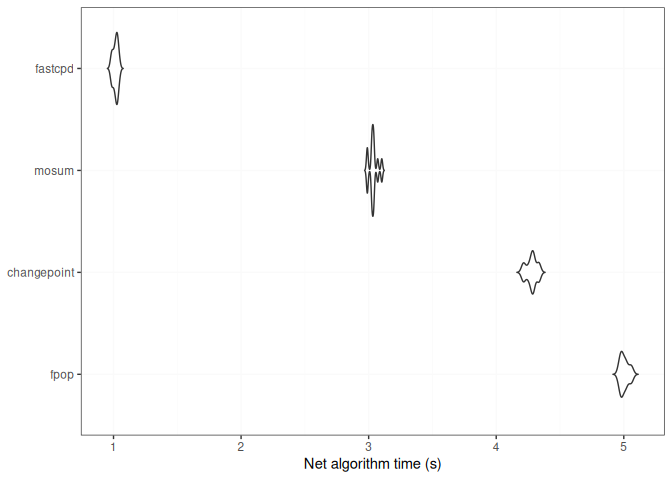
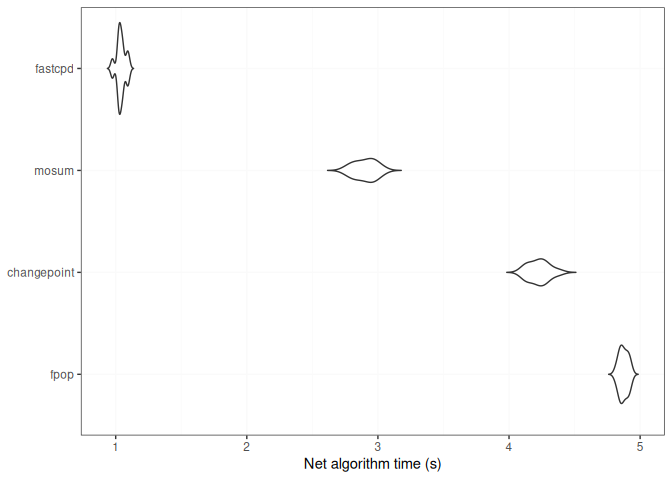
Unify fastcpd README violins and expand MBIC benchmarks

diff --git a/tools/readme-comparison/comparison.cc b/tools/readme-comparison/comparison.cc
@@ -1,0 +1,71 @@
+// Native README benchmark: run as readme_comparison observations.txt.
+#include <fastcpd/fastcpd.h>
+#include "colibri.h"
+
+#include <algorithm>
+#include <chrono>
+#include <cmath>
+#include <fstream>
+#include <iomanip>
+#include <iostream>
+#include <stdexcept>
+#include <vector>
+
+int main(int argc, char** argv) {
+  try {
+    if (argc != 2) throw std::runtime_error("Supply the observation file");
+    std::ifstream input(argv[1]);
+    if (!input) throw std::runtime_error("Cannot open observation file");
+    std::vector<double> x;
+    for (double value; input >> value;) x.push_back(value);
+    if (!input.eof() || x.size() != 1000000 ||
+        !std::all_of(x.begin(), x.end(), [](double v) { return std::isfinite(v); })) {
+      throw std::runtime_error("Expected 1000000 finite observations");
+    }
+    const int n = static_cast<int>(x.size());
+    const arma::mat data(x.data(), x.size(), 1);
+    auto run_fastcpd = [&]() {
+      fastcpd::Options options;
+      options.beta_criterion = "MBIC";
+      options.cost_adjustment = "MBIC";
+      options.variance_estimate = arma::eye<arma::mat>(1, 1);
+      options.cp_only = true;
+      auto result = fastcpd::detect_mean(data, options);
+      return std::vector<int>(result.change_points.begin(), result.change_points.end());
+    };
+    auto run_fpop = [&]() {
+      const double penalty = 2 * std::log(n);
+      const auto bounds = std::minmax_element(x.begin(), x.end());
+      std::vector<int> previous(n);
+      std::vector<double> costs(n);
+      colibri_op_c(x.data(), &n, &penalty, &*bounds.first, &*bounds.second,
+                   previous.data(), costs.data());
+      std::vector<int> points;
+      for (int end = previous[n - 1]; end > 0; end = previous[end - 1]) {
+        points.push_back(end);
+      }
+      std::reverse(points.begin(), points.end());
+      return points;
+    };
+    const std::vector<int> expected{n / 2};
+    if (run_fastcpd() != expected || run_fpop() != expected) {
+      throw std::runtime_error("Warm-up change points differ from expected 500000");
+    }
+    std::cout << std::fixed << std::setprecision(9);
+    for (int repeat = 0; repeat < 10; ++repeat) {
+      for (int turn = 0; turn < 2; ++turn) {
+        const bool use_fastcpd = (repeat + turn) % 2 == 0;
+        const auto start = std::chrono::steady_clock::now();
+        const auto points = use_fastcpd ? run_fastcpd() : run_fpop();
+        const double seconds = std::chrono::duration<double>(
+            std::chrono::steady_clock::now() - start).count();
+        if (points != expected) throw std::runtime_error("Unexpected change points");
+        std::cout << (use_fastcpd ? "fastcpd" : "fpop") << '\t'
+                  << points.front() << '\t' << seconds << '\n';
+      }
+    }
+  } catch (const std::exception& error) {
+    std::cerr << error.what() << '\n';
+    return 1;
+  }
+}

diff --git a/README.md b/README.md
@@ -1,7 +1,7 @@
 
 <!-- README.md is generated from README.Rmd. Please edit that file -->
 
-# Fast Change Point Detection <a href="https://fastcpd.xingchi.li"><img src="man/figures/logo.png" align="right" height="138" /></a>
+# Fast Change Point Detection <a href="https://fastcpd.xingchi.li"><img src="https://raw.githubusercontent.com/doccstat/fastcpd-r/main/man/figures/logo.png" align="right" height="138" /></a>
 
 [![Codecov test
 coverage](https://codecov.io/gh/doccstat/fastcpd-r/branch/main/graph/badge.svg)](https://app.codecov.io/gh/doccstat/fastcpd-r?branch=main)
@@ -61,89 +61,50 @@ n <- 10^7
 mean_data <- c(rnorm(n / 2, 0, 1), rnorm(n / 2, 50, 1))
 print(run_isolated(fastcpd::detect_mean(mean_data, cp_only = TRUE, variance_estimation = 1)))
 #>    user  system elapsed 
-#>   0.743   0.240   1.048
+#>   0.745   0.194   0.981
 print(run_isolated(mosum::mosum(c(mean_data), G = 40)))
 #>    user  system elapsed 
-#>   1.303   0.754   2.117
+#>   1.282   0.696   2.236
 print(run_isolated(changepoint::cpt.mean(mean_data, method = "PELT")))
 #>    user  system elapsed 
-#>   3.347   0.715   4.104
+#>   3.381   0.665   4.418
 print(run_isolated(fpop::Fpop(mean_data, 2 * log(n))))
 #>    user  system elapsed 
-#>   4.162   0.308   4.481
+#>   4.027   0.299   4.483
 ```
 
-![](man/figures/README-time-comparison-fastbench-1.png)<!-- -->
+![](https://raw.githubusercontent.com/doccstat/fastcpd-r/main/man/figures/README-time-comparison-fastbench-1.png)<!-- -->
 
 ### Python
 
-The following exact L2 PELT comparison evaluates every possible
-change-point location. `ruptures` uses SSE while `fastcpd` uses SSE/2,
-so its penalty is doubled to match the objective.
-
 ``` python
-import time
-
 import numpy as np
 import ruptures as rpt
 from fastcpd import detect_mean
+from sdt.changepoint import Pelt as SdtPelt
+from skchange.detectors import PELT
+from skchange.interval_scorers import L2Cost
 
 rng = np.random.default_rng(1)
 n = 1_000
 x = np.r_[rng.normal(0, 1, n // 2), rng.normal(50, 1, n // 2)]
 
 
-def benchmark(call, times=5):
-    elapsed = []
-    result = None
-    for _ in range(times):
-        start = time.perf_counter()
-        result = call()
-        elapsed.append(time.perf_counter() - start)
-    return result, elapsed
-
-
-fastcpd_result, fastcpd_elapsed = benchmark(
-    lambda: detect_mean(
-        x,
-        beta=np.log(n),
-        cost_adjustment="BIC",
-        variance_estimation=1,
-        cp_only=True,
-    )
-)
-ruptures_result, ruptures_elapsed = benchmark(
-    lambda: rpt.Pelt(model="l2", min_size=1, jump=1)
-    .fit(x)
-    .predict(pen=2 * np.log(n))
-)
-
-results = (
-    ("fastcpd", fastcpd_result.cp_set.tolist(), fastcpd_elapsed),
-    ("ruptures", ruptures_result[:-1], ruptures_elapsed),
-)
-for name, change_points, elapsed in results:
-    points = ",".join(map(str, change_points))
-    for seconds in elapsed:
-        print(f"{name}\t{points}\t{seconds:.9f}")
+benchmark("fastcpd", lambda: detect_mean(x, variance_estimation=1, cp_only=True))
+benchmark("skchange", lambda: PELT(cost=L2Cost(), penalty=2 * np.log(n), min_segment_length=1).fit_predict(x.reshape(-1, 1)))
+benchmark("sdt-python", lambda: SdtPelt(cost="l2", min_size=1, jump=1).find_changepoints(x, penalty=2 * np.log(n)))
+benchmark("ruptures", lambda: rpt.Pelt(model="l2", min_size=1, jump=1).fit(x).predict(pen=2 * np.log(n)))
 ```
 
-| Package  | Change points | Median elapsed (s) |
-|:---------|--------------:|-------------------:|
-| fastcpd  |           500 |             0.0016 |
-| ruptures |           500 |             3.8267 |
-
-![](man/figures/README-time-comparison-python-plot-1.png)<!-- -->
+![](https://raw.githubusercontent.com/doccstat/fastcpd-r/main/man/figures/README-time-comparison-python-plot-1.png)<!-- -->
 
 ### C++
 
-The Python package uses the same standalone C++17 core. The header-only
-C++23 [`signal-kernels`](https://github.com/HarperZ9/signal-kernels)
-library also provides PELT with L1, L2, and Poisson costs, but its
-packaged CMake build is currently Windows/MSVC-only, so no like-for-like
-timing is reported. See the [`fastcpd-cpp`
-examples](https://github.com/doccstat/fastcpd-cpp/tree/main/examples/cpp)
-for native usage.
+Native fastcpd and fpop on Linux ARM64, with 1,000,000 observations.
+[Source and build
+instructions](https://github.com/doccstat/fastcpd-r/tree/main/tools/readme-comparison).
+
+![](https://raw.githubusercontent.com/doccstat/fastcpd-r/main/man/figures/README-time-comparison-cpp-plot-1.png)<!-- -->
 
 ## References
 

diff --git a/tools/readme-comparison/README.md b/tools/readme-comparison/README.md
@@ -1,0 +1,42 @@
+# README comparison reproduction
+
+Run from the canonical fastcpd source directory. R needs fastcpd, mosum,
+changepoint, fpop, callr, ggplot2, knitr, and rmarkdown.
+
+## Dependencies and native build
+
+Tested on Linux ARM64 with GCC 13.3, fastcpd 1.3.0, Python 3.12,
+NumPy 2.5.2, and Numba 0.67.0.
+
+```sh
+python -m pip install 'ruptures==1.1.10' 'skchange[numba]==0.18.0' 'sdt-python==20.1.4'
+```
+
+Build and install fastcpd in Release mode with Armadillo and Abseil.
+The benchmark compiles fpop's unmodified C++ core without its R wrapper;
+its LGPL-2.1-or-later sources stay in a separate checkout.
+
+```sh
+git clone https://github.com/cran/fpop.git /tmp/fastcpd-readme-fpop
+git -C /tmp/fastcpd-readme-fpop switch --detach 855c14826b568665f8318e270b49ea6c267f8a31
+cmake -S tools/readme-comparison -B /tmp/fastcpd-readme-build \
+  -DCMAKE_BUILD_TYPE=Release \
+  -DCMAKE_PREFIX_PATH='/path/to/fastcpd-install;/path/to/abseil-install' \
+  -DFPOP_SOURCE_DIR=/tmp/fastcpd-readme-fpop
+cmake --build /tmp/fastcpd-readme-build --parallel 2
+```
+
+## Render
+
+Set `R_LIBS` if fastcpd is installed in a separate R library.
+
+```sh
+OMP_NUM_THREADS=1 OPENBLAS_NUM_THREADS=1 \
+FASTCPD_README_PYTHON=/path/to/venv/bin/python \
+FASTCPD_README_CPP=/tmp/fastcpd-readme-build/readme_comparison \
+Rscript -e 'rmarkdown::render("README.Rmd")'
+```
+
+The render regenerates all three figures and passes a million-observation
+input to the native executable through a temporary file. Benchmark settings and
+timing boundaries are defined in `README.Rmd` and `comparison.cc`.
